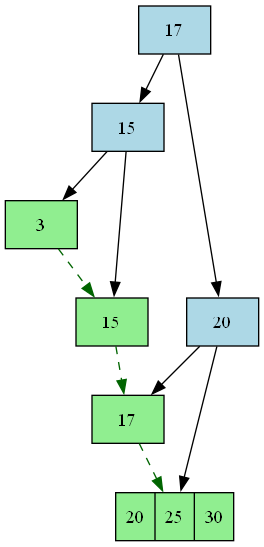
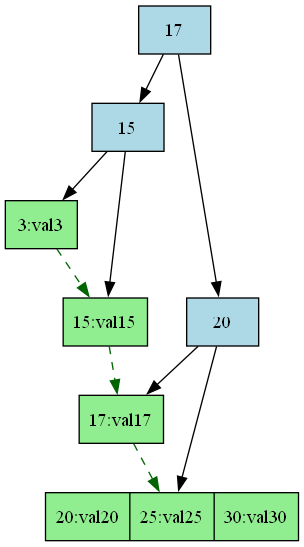
added values in the b+ tree  visualization

diff --git a/Module_A/database/bplustree.py b/Module_A/database/bplustree.py
@@ -289,7 +289,10 @@ class TreeVisualizer:
             node_id[0] += 1
 
             if node.keys:
-                label = " | ".join(str(k) for k in node.keys)
+                if node.is_leaf:
+                    label = " | ".join(f"{k}:{v}" for k, v in zip(node.keys, node.values))
+                else:
+                    label = " | ".join(str(k) for k in node.keys)
             else:
                 label = "Empty"
 
